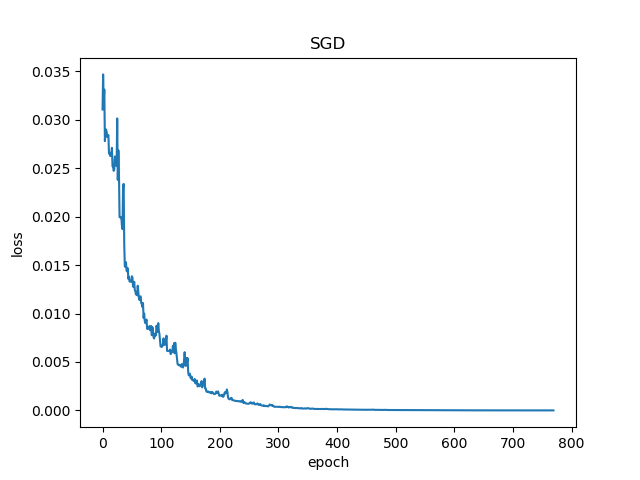
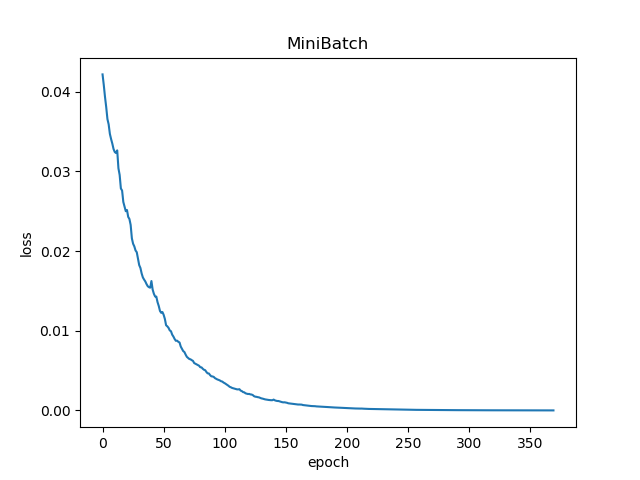
update

diff --git a/B-教学案例与实践/B6-神经网络基本原理简明教程/微软-方案1/NeuralNetwork/ch05/level6_NormalizeLabelData.py b/B-教学案例与实践/B6-神经网络基本原理简明教程/微软-方案1/NeuralNetwork/ch05/level6_NormalizeLabelData.py
@@ -23,7 +23,7 @@ def PredicateTest(W, B, X_norm, Y_norm):
 if __name__ == '__main__':
     # hyper parameters
     # SGD, MiniBatch, FullBatch
-    method = "FullBatch"
+    method = "MiniBatch"
     # read data
     raw_X, raw_Y = ReadData()
     X, X_norm, Y, Y_norm = NormalizeXYData(raw_X, raw_Y)

diff --git a/B-教学案例与实践/B6-神经网络基本原理简明教程/微软-方案1/NeuralNetwork/ch05/level2_NeuralNetwork.py b/B-教学案例与实践/B6-神经网络基本原理简明教程/微软-方案1/NeuralNetwork/ch05/level2_NeuralNetwork.py
@@ -114,7 +114,7 @@ def ShowLossHistory(dict_loss, method):
         loss.append(key)
 
     #plt.plot(loss)
-    plt.plot(loss[30:800])
+    plt.plot(loss[30:1000])
     plt.title(method)
     plt.xlabel("epoch")
     plt.ylabel("loss")

diff --git a/B-教学案例与实践/B6-神经网络基本原理简明教程/05.6-归一化标签值.md b/B-教学案例与实践/B6-神经网络基本原理简明教程/05.6-归一化标签值.md
@@ -92,17 +92,13 @@ b. 反归一化为W,B的本来值$W_{Real},B_{Real}$，推理时输入的X不需
 
 铁柱：可以看到对标签值的归一化确实给我们带来了好处，迭代次数减少了一倍多。其实，咱们这个网络还很简单，这样折腾一下是为了让大家有深刻的理解，这里有两张图可以对比：
 
-|标签值归一化|标签值不归一化|
+|标签值不归一化|标签值归一化|
 |------|-----|
-|<img src=".\Images\5\LossWithNormalizeLabelData.png">|<img src=".\Images\5\LossWithoutNormalizeLabelData.png">|
+|<img src=".\Images\5\LossWithoutNormalizeLabelData.png">|<img src=".\Images\5\LossWithNormalizeLabelData.png">|
 
-左侧做了标签值归一化，看loss值起始值0.035，看log用了900次迭代。
+左侧的没有做标签值归一化，loss从4000开始，用了1000次迭代，达到了理想值。
 
-右侧的没有做标签值归一化，loss从4000开始，用了1200多次迭代，达到了理想值。
-
-真正复杂的神经网络有个理论叫做"Batch Normalization"——批标准化，以后咱们遇到时再讲。
-
-木头：好啊好啊！
+右侧做了标签值归一化，看loss值起始值0.035，看log用了350次迭代即达标。
 
 至此，我们完美地解决了北京地区的房价预测问题！但是还没有解决自己可以有能力买一套北京的房子的问题......
 

diff --git a/B-教学案例与实践/B6-神经网络基本原理简明教程/08.3-学习率的确定.md b/B-教学案例与实践/B6-神经网络基本原理简明教程/08.3-学习率的确定.md
@@ -17,10 +17,15 @@ Copyright © Microsoft Corporation. All rights reserved.
 2. 此外，相同的学习率并不适用于所有的参数更新。如果训练集数据很稀疏，且特征频率非常不同，则不应该将其全部更新到相同的程度，但是对于很少出现的特征，应使用更大的更新率。
 3. 在神经网络中，最小化非凸误差函数的另一个关键挑战是避免陷于多个其他局部最小值中。实际上，问题并非源于局部极小值，而是来自鞍点，即一个维度向上倾斜且另一维度向下倾斜的点。这些鞍点通常被相同误差值的平面所包围，这使得SGD算法很难脱离出来，因为梯度在所有维度上接近于零。
 
+比如我们在本章前面的实例结果，Loss值随迭代次数而下降的历史记录图是这样的：
+
+<img src=".\Images\8\SGD.png" width="600">
+
+为什么在5000至20000个epoch之间，有很大一段平坦地段，Loss值并没有显著下降？这其实也体现了这个问题的实际损失函数的形状，在这一区域上梯度比较平缓，以至于梯度下降算法并不能找到合适的突破方向寻找最优解，而是在原地转腰子（徘徊）。这一平缓地区就是损失函数的驻点或者鞍点。
+
 <img src=".\Images\8\saddle_point.png" width="400">
 
 ## 学习率的选择
-
 
 关键参数有两个：
 
